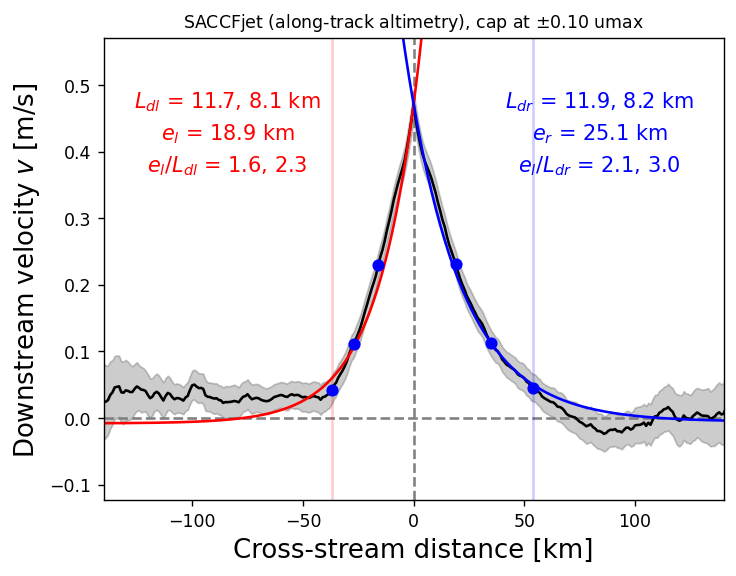
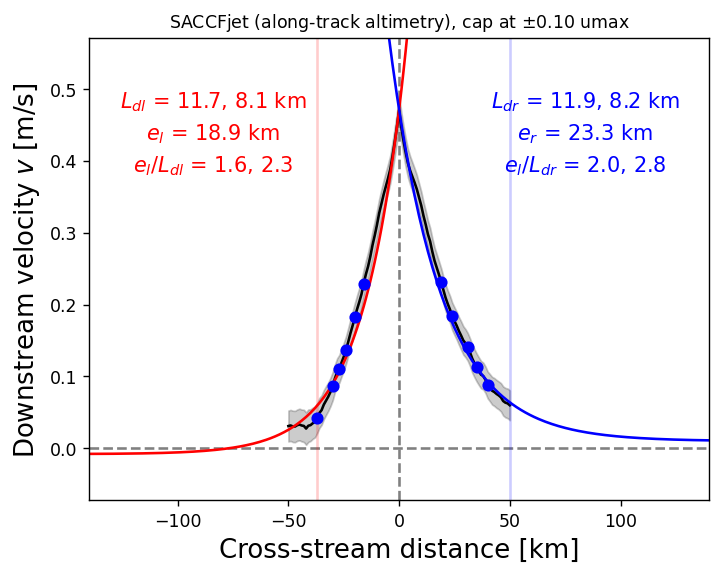
Update time-averaged jet files and figures after rotation

diff --git a/proc/convert_jetprofiles.py b/proc/convert_jetprofiles.py
@@ -126,8 +126,9 @@ plt.close("all")
 
 CORE_CONSTRAINT = True
 CAP_CENTER = False
+out_prefix = "../data/derived/"
 
-umaxfracLs = [0.5, 0.25, 0.1]
+umaxfracLs = [0.5, 0.4, 0.3, 0.25, 0.2, 0.1]
 umaxfrac = 0.1 # Fraction of the core velocity to cap the fit at either side of the jet.
 
 AVGLR_ufrac = True
@@ -138,7 +139,9 @@ ACCjets_angdiff_thresh = 45 # [Degrees]
 names = ["GulfStream33N", "GulfStream34N", "GulfStream36N", "GulfStream37N", "GulfStream38N", "AgulhasCurrent", "EAC29S", "BrazilCurrent29S", "KuroshioCurrent25N", "KuroshioCurrent28p5N", "ustream_SAFjet_LMG.nc", "ustream_PFjet_LMG.nc", "ustream_SACCFjet_LMG.nc", "ustream_shelbreakjet_LMG.nc"]
 
 # Add lower-latitude jets from synoptic ADCP sections.
-names.extend(glob("*_synop.nc"))
+names_synop = glob("%s*_synop.nc"%out_prefix)
+names_synop = [n.removeprefix(out_prefix) for n in names_synop]
+names.extend(names_synop)
 
 if CAP_CENTER:
     cap_center = "yescappedcore"
@@ -182,21 +185,25 @@ for name in names:
     if "LMGshfbrk" not in name and name not in ACCnames and not SYNOP:
         f = "%s/ug_stream_TPJAOS-%s.nc"%(nameh, name)
     else:
-        f = "../data/derived/" + f
+        f = out_prefix + f
 
     ds = open_dataset(f)
     if SYNOP:
         xs = ds["x"].values
         us = ds["u"].values
-    elif name in ACCnames:
+    elif name in ACCnames or "LMGshfbrk" in name:
         xs = ds["x"].values
-        fangg = np.abs(ds["angdiff"])<=ACCjets_angdiff_thresh
+        if "LMGshfbrk" in name:
+            fangg = np.abs(ds["angcr"])<=ACCjets_angdiff_thresh
+        else:
+            fangg = np.abs(ds["angdiff"])<=ACCjets_angdiff_thresh
         us = ds["us"].where(fangg)
         pg = 100*np.sum(fangg.values)/fangg.size
         print("Kept %d%% of values for %s"%(pg, name))
         xEDOF = np.isfinite(us).sum(dim="t")
         SE = us.std(dim="t")/np.sqrt(xEDOF)
         us = us.mean(dim="t").values
+        us[np.abs(xs)>50] = np.nan
     else:
         xs = ds["x"].values
         xEDOF = ds["xEDOF"].values
@@ -321,7 +328,7 @@ for name in names:
     if not SYNOP:
         npzout.update(dict(ekeavg=ekeavg))
 
-    np.savez(name+".npz", **npzout)
+    np.savez(out_prefix + name + ".npz", **npzout)
 
     dyl, dyt = 0.1, 0.1
     fig, ax = plt.subplots()
